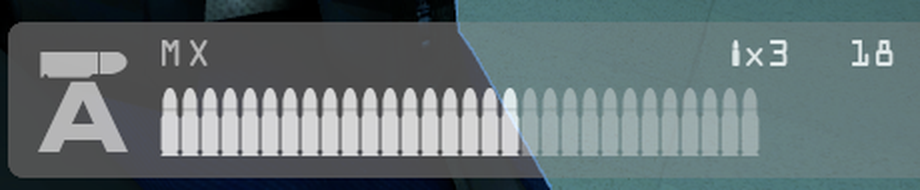
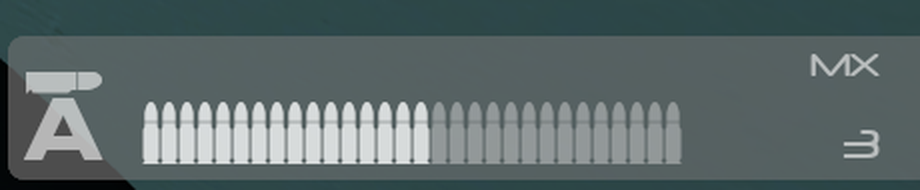
Set the ammo rail against master on the HUD glyph page
The originals beside the latest ammo panels were an earlier iteration of
the pull requests. A reader comparing against the game as it ships needs
master, so all thirteen guns now carry a master capture, and the fire
mode section shows that master has the cut too.

diff --git a/hud-glyphs/index.html b/hud-glyphs/index.html
@@ -75,7 +75,7 @@ figure.pair .tag.new{color:var(--accent)}
 <header>
 <p class="eyebrow">NT;RE HUD consistency, measuring pass and ammo rail</p>
 <h1>HUD Glyphs and Ammo Rail</h1>
-<p>Captured on Linux on 2026-11-09 at 1920 by 1080. The starting point is the HUD proposed in the HUD consistency pull requests, #28 to #32 on <a href="https://github.com/sunmachine/ntre-dev/pulls">sunmachine/ntre-dev</a>, and its captures are the ones marked original below. Three additions sit on top of it: a debug view that measures HUD text, a fix for the cut fire mode icons, and a new layout for the ammo rail and the mag count. None of the three is in a pull request yet.</p>
+<p>Captured on Linux at 1920 by 1080, the latest set on 2026-11-09. The captures marked original are <code>master</code> of NeotokyoRebuild/neo at <code>aa8f099d4</code>, captured on 2026-11-10 with only the Linux font loading fix applied so its fonts draw as they do on Windows. The captures marked latest are the HUD proposed in the HUD consistency pull requests, #28 to #32 on <a href="https://github.com/sunmachine/ntre-dev/pulls">sunmachine/ntre-dev</a>, with three additions on top: a debug view that measures HUD text, a fix for the cut fire mode icons, and a new layout for the ammo rail and the mag count. None of the three is in a pull request yet.</p>
 </header>
 
 <p class="part">Part 1. How it is measured</p>
@@ -140,6 +140,8 @@ text    NHudWeapon  -            NHudFireMode   NOCR Icons   60    58      1477 
 <h2>Fire mode icons</h2>
 <p>The automatic, semi-automatic and pump icons lost 3, 4 and 1 rows from their top at 1080p. The engine draws nothing above a font's line box, and NOCR's line box stops below these three glyphs. A font file holding NOCR's icon glyphs with a taller line box removes the cut and keeps each icon's width to the pixel.</p>
 <p>The measuring capture with the world blacked out, enlarged five times, with the dumped rectangles drawn on it. Red is the top of the font's line box, where the engine stops drawing. Before, the round sits flat against it. After, the line box starts above the glyph.</p>
+<div class="grid pairs"><figure class="cut"><img src="img/cut_master.png" alt="Semi-automatic and automatic icons on master, the round above each letter cut flat" loading="lazy"><figcaption><b>On master.</b> Semi-automatic and automatic, enlarged five times. The round above the letter is cut flat in the same way, so the cut is not new to the pull requests.</figcaption></figure></div>
+<p>The six figures below are measuring captures from the pull requests' HUD, before and after the icon fix.</p>
 <div class="grid cuts">
 <figure class="cut"><img src="img/cut_h_before.png" alt="Semi-automatic icon before, its top flat against the red line" loading="lazy"><figcaption><b>Semi, before.</b> Ink starts on the line box's first row.</figcaption></figure>
 <figure class="cut"><img src="img/cut_h_after.png" alt="Semi-automatic icon after, whole" loading="lazy"><figcaption><b>Semi, after.</b> 4 rows back, 11 px above and below.</figcaption></figure>
@@ -212,33 +214,29 @@ text    NHudWeapon  -            NHudFireMode   NOCR Icons   60    58      1477 
 
 <section>
 <h2>Ammo rail and mag count</h2>
-<p>The original rail drew every round at one size. A mag with more rounds than the rail has room for was drawn with fewer rounds than it holds and filled by proportion, so the PZ252's 100 rounds and the SRM's 50 drew the same full rail. Both counts sat on the top row beside the name. The latest layout draws one round per round, gives each gun its own rows and batches, and moves the mag count to the end of the rack. All crops are the bottom right corner at twice native size.</p>
+<p>On <code>master</code> every round is drawn at one size in a single row, a plus sign marks a mag that holds more rounds than the row shows, and the panel has no round count. The latest layout draws one round per round, gives each gun its own rows and batches, adds the round count over the rail and stands the mag count at the end of the rack. All crops are the bottom right corner at twice native size.</p>
 <ol>
 <li><strong>Two rows for the PZ252, SMAC and SRM only.</strong> Their rounds are drawn small, and the lower row empties first.</li>
 <li><strong>One row for every other bulleted gun,</strong> with rounds at full size when the mag fits the rail and smaller when it does not. A smaller row stands in the middle of a full round's height.</li>
 <li><strong>Rounds stand in batches.</strong> The batch size is set per gun in its weapon script, and the space between batches is 0.4 of a round's width.</li>
-<li><strong>The mag count stands at the end of the rack,</strong> at the panel's right edge and level with the rail, opposite the fire mode icon. Its number and its round glyph are larger than before.</li>
+<li><strong>The mag count stands at the end of the rack,</strong> at the panel's right edge and level with the rail, opposite the fire mode icon. It is the number alone on <code>master</code>, and here it carries a round glyph.</li>
 <li><strong>The round count sits over the rail's right edge</strong> on the top row.</li>
 </ol>
-<h3>Against the originals</h3>
+<h3>Against master</h3>
 <div class="grid pairs">
-<figure class="pair"><span class="tag">Original</span><img src="img/orig_pz.png" alt="PZ252 ammo panel, original" loading="lazy"><span class="tag new">Latest</span><img src="img/rail_pz.png" alt="PZ252 ammo panel, latest" loading="lazy"><figcaption><b>PZ252.</b> 100 rounds in two rows of 50, a space after every 10.</figcaption></figure>
-<figure class="pair"><span class="tag">Original</span><img src="img/orig_srm.png" alt="SRM ammo panel, original" loading="lazy"><span class="tag new">Latest</span><img src="img/rail_srm.png" alt="SRM ammo panel, latest" loading="lazy"><figcaption><b>SRM.</b> 50 rounds in two rows of 25, a space after every 5.</figcaption></figure>
-<figure class="pair"><span class="tag">Original</span><img src="img/orig_mx.png" alt="MX ammo panel, original" loading="lazy"><span class="tag new">Latest</span><img src="img/rail_mx.png" alt="MX ammo panel, latest" loading="lazy"><figcaption><b>MX.</b> 30 rounds in one row at full size, a space after every 10.</figcaption></figure>
-<figure class="pair"><span class="tag">Original</span><img src="img/orig_milso.png" alt="MilSO ammo panel, original" loading="lazy"><span class="tag new">Latest</span><img src="img/rail_milso.png" alt="MilSO ammo panel, latest" loading="lazy"><figcaption><b>MilSO.</b> 12 rounds in one row at full size, a space after every 4.</figcaption></figure>
-<figure class="pair"><span class="tag">Original</span><img src="img/orig_kyla.png" alt="KYLA ammo panel, original" loading="lazy"><span class="tag new">Latest</span><img src="img/rail_kyla.png" alt="KYLA ammo panel, latest" loading="lazy"><figcaption><b>KYLA.</b> 6 rounds in one row at full size, no spaces.</figcaption></figure>
-<figure class="pair"><span class="tag">Original</span><img src="img/orig_supa7.png" alt="SUPA 7 ammo panel, original" loading="lazy"><span class="tag new">Latest</span><img src="img/rail_supa7.png" alt="SUPA 7 ammo panel, latest" loading="lazy"><figcaption><b>SUPA 7.</b> 7 shells in one row. The two reserve counts stack across the rail's height, shells over slugs, 8 px apart.</figcaption></figure>
-</div>
-<h3>Latest only</h3>
-<p>These guns were not in the original capture set, so there is nothing to set them against.</p>
-<div class="grid pairs">
-<figure class="pair"><span class="tag new">Latest</span><img src="img/rail_smac.png" alt="SMAC ammo panel, latest" loading="lazy"><figcaption><b>SMAC.</b> 90 rounds in two rows, 50 over 40, a space after every 10.</figcaption></figure>
-<figure class="pair"><span class="tag new">Latest</span><img src="img/rail_jitte.png" alt="Jitte ammo panel, latest" loading="lazy"><figcaption><b>Jitte.</b> 30 rounds in one row, a space after every 10. The rounds are drawn smaller so the row fits the rail.</figcaption></figure>
-<figure class="pair"><span class="tag new">Latest</span><img src="img/rail_mpn.png" alt="MPN45 ammo panel, latest" loading="lazy"><figcaption><b>MPN45.</b> 30 rounds in one row, a space after every 10, smaller as on the Jitte.</figcaption></figure>
-<figure class="pair"><span class="tag new">Latest</span><img src="img/rail_m41.png" alt="M41 ammo panel, latest" loading="lazy"><figcaption><b>M41.</b> 15 rounds in one row at full size, a space after every 5.</figcaption></figure>
-<figure class="pair"><span class="tag new">Latest</span><img src="img/rail_tachi.png" alt="TACHI ammo panel, latest" loading="lazy"><figcaption><b>TACHI.</b> 15 rounds in one row at full size, a space after every 5.</figcaption></figure>
-<figure class="pair"><span class="tag new">Latest</span><img src="img/rail_srs.png" alt="SRS ammo panel, latest" loading="lazy"><figcaption><b>SRS.</b> 5 rounds in one row at full size, no spaces.</figcaption></figure>
-<figure class="pair"><span class="tag new">Latest</span><img src="img/rail_aa13.png" alt="AA13 ammo panel, latest" loading="lazy"><figcaption><b>AA13.</b> 16 shells in one row at full size. Only the counts moved.</figcaption></figure>
+<figure class="pair"><span class="tag">Original, master</span><img src="img/orig_pz.png" alt="PZ252 ammo panel on master" loading="lazy"><span class="tag new">Latest</span><img src="img/rail_pz.png" alt="PZ252 ammo panel, latest" loading="lazy"><figcaption><b>PZ252.</b> 100 rounds in two rows of 50, a space after every 10.</figcaption></figure>
+<figure class="pair"><span class="tag">Original, master</span><img src="img/orig_srm.png" alt="SRM ammo panel on master" loading="lazy"><span class="tag new">Latest</span><img src="img/rail_srm.png" alt="SRM ammo panel, latest" loading="lazy"><figcaption><b>SRM.</b> 50 rounds in two rows of 25, a space after every 5.</figcaption></figure>
+<figure class="pair"><span class="tag">Original, master</span><img src="img/orig_mx.png" alt="MX ammo panel on master" loading="lazy"><span class="tag new">Latest</span><img src="img/rail_mx.png" alt="MX ammo panel, latest" loading="lazy"><figcaption><b>MX.</b> 30 rounds in one row at full size, a space after every 10.</figcaption></figure>
+<figure class="pair"><span class="tag">Original, master</span><img src="img/orig_milso.png" alt="MilSO ammo panel on master" loading="lazy"><span class="tag new">Latest</span><img src="img/rail_milso.png" alt="MilSO ammo panel, latest" loading="lazy"><figcaption><b>MilSO.</b> 12 rounds in one row at full size, a space after every 4.</figcaption></figure>
+<figure class="pair"><span class="tag">Original, master</span><img src="img/orig_kyla.png" alt="KYLA ammo panel on master" loading="lazy"><span class="tag new">Latest</span><img src="img/rail_kyla.png" alt="KYLA ammo panel, latest" loading="lazy"><figcaption><b>KYLA.</b> 6 rounds in one row at full size, no spaces.</figcaption></figure>
+<figure class="pair"><span class="tag">Original, master</span><img src="img/orig_supa7.png" alt="SUPA 7 ammo panel on master" loading="lazy"><span class="tag new">Latest</span><img src="img/rail_supa7.png" alt="SUPA 7 ammo panel, latest" loading="lazy"><figcaption><b>SUPA 7.</b> 7 shells in one row. The two reserve counts stack across the rail's height, shells over slugs, 8 px apart.</figcaption></figure>
+<figure class="pair"><span class="tag">Original, master</span><img src="img/orig_smac.png" alt="SMAC ammo panel on master" loading="lazy"><span class="tag new">Latest</span><img src="img/rail_smac.png" alt="SMAC ammo panel, latest" loading="lazy"><figcaption><b>SMAC.</b> 90 rounds in two rows, 50 over 40, a space after every 10.</figcaption></figure>
+<figure class="pair"><span class="tag">Original, master</span><img src="img/orig_jitte.png" alt="Jitte ammo panel on master" loading="lazy"><span class="tag new">Latest</span><img src="img/rail_jitte.png" alt="Jitte ammo panel, latest" loading="lazy"><figcaption><b>Jitte.</b> 30 rounds in one row, a space after every 10. The rounds are drawn smaller so the row fits the rail.</figcaption></figure>
+<figure class="pair"><span class="tag">Original, master</span><img src="img/orig_mpn.png" alt="MPN45 ammo panel on master" loading="lazy"><span class="tag new">Latest</span><img src="img/rail_mpn.png" alt="MPN45 ammo panel, latest" loading="lazy"><figcaption><b>MPN45.</b> 30 rounds in one row, a space after every 10, smaller as on the Jitte.</figcaption></figure>
+<figure class="pair"><span class="tag">Original, master</span><img src="img/orig_m41.png" alt="M41 ammo panel on master" loading="lazy"><span class="tag new">Latest</span><img src="img/rail_m41.png" alt="M41 ammo panel, latest" loading="lazy"><figcaption><b>M41.</b> 15 rounds in one row at full size, a space after every 5.</figcaption></figure>
+<figure class="pair"><span class="tag">Original, master</span><img src="img/orig_tachi.png" alt="TACHI ammo panel on master" loading="lazy"><span class="tag new">Latest</span><img src="img/rail_tachi.png" alt="TACHI ammo panel, latest" loading="lazy"><figcaption><b>TACHI.</b> 15 rounds in one row at full size, a space after every 5.</figcaption></figure>
+<figure class="pair"><span class="tag">Original, master</span><img src="img/orig_srs.png" alt="SRS ammo panel on master" loading="lazy"><span class="tag new">Latest</span><img src="img/rail_srs.png" alt="SRS ammo panel, latest" loading="lazy"><figcaption><b>SRS.</b> 5 rounds in one row at full size, no spaces.</figcaption></figure>
+<figure class="pair"><span class="tag">Original, master</span><img src="img/orig_aa13.png" alt="AA13 ammo panel on master" loading="lazy"><span class="tag new">Latest</span><img src="img/rail_aa13.png" alt="AA13 ammo panel, latest" loading="lazy"><figcaption><b>AA13.</b> 16 shells in one row at full size, as on master.</figcaption></figure>
 </div>
 <div class="tablewrap"><table>
 <thead><tr><th>Gun</th><th>Mag</th><th>Rows</th><th>Batch</th><th>Round size</th></tr></thead>
@@ -259,7 +257,7 @@ text    NHudWeapon  -            NHudFireMode   NOCR Icons   60    58      1477 
 
 <section>
 <h2>Panels this pass did not change</h2>
-<p>The vitals, compass, dash and kill feed are as the pull requests propose them. Their latest captures follow, since the measurements above were taken on them too.</p>
+<p>The vitals, compass, dash and kill feed are as the pull requests propose them. Their latest captures follow, since the measurements above were taken on them too. They have no <code>master</code> captures beside them yet.</p>
 </section>
 
 <section>
@@ -308,6 +306,7 @@ text    NHudWeapon  -            NHudFireMode   NOCR Icons   60    58      1477 
 <li><strong>The ammo panel for the frag grenade, smoke grenade, knife and BALC.</strong> The rail change moved the counts, and these were not captured again.</li>
 <li><strong>All nineteen full scenes and their debug frames.</strong> Every one has the earlier ammo panel in its corner.</li>
 <li><strong>The M41L and ZR68L.</strong> They have never been captured. The M41L could not be put in hand.</li>
+<li><strong>The vitals, compass, dash and kill feed on <code>master</code>.</strong> Only the ammo panel was captured there.</li>
 <li><strong>The ammo panel's rows in the padding table,</strong> and the rest of its dump.</li>
 </ul>
 </section>
